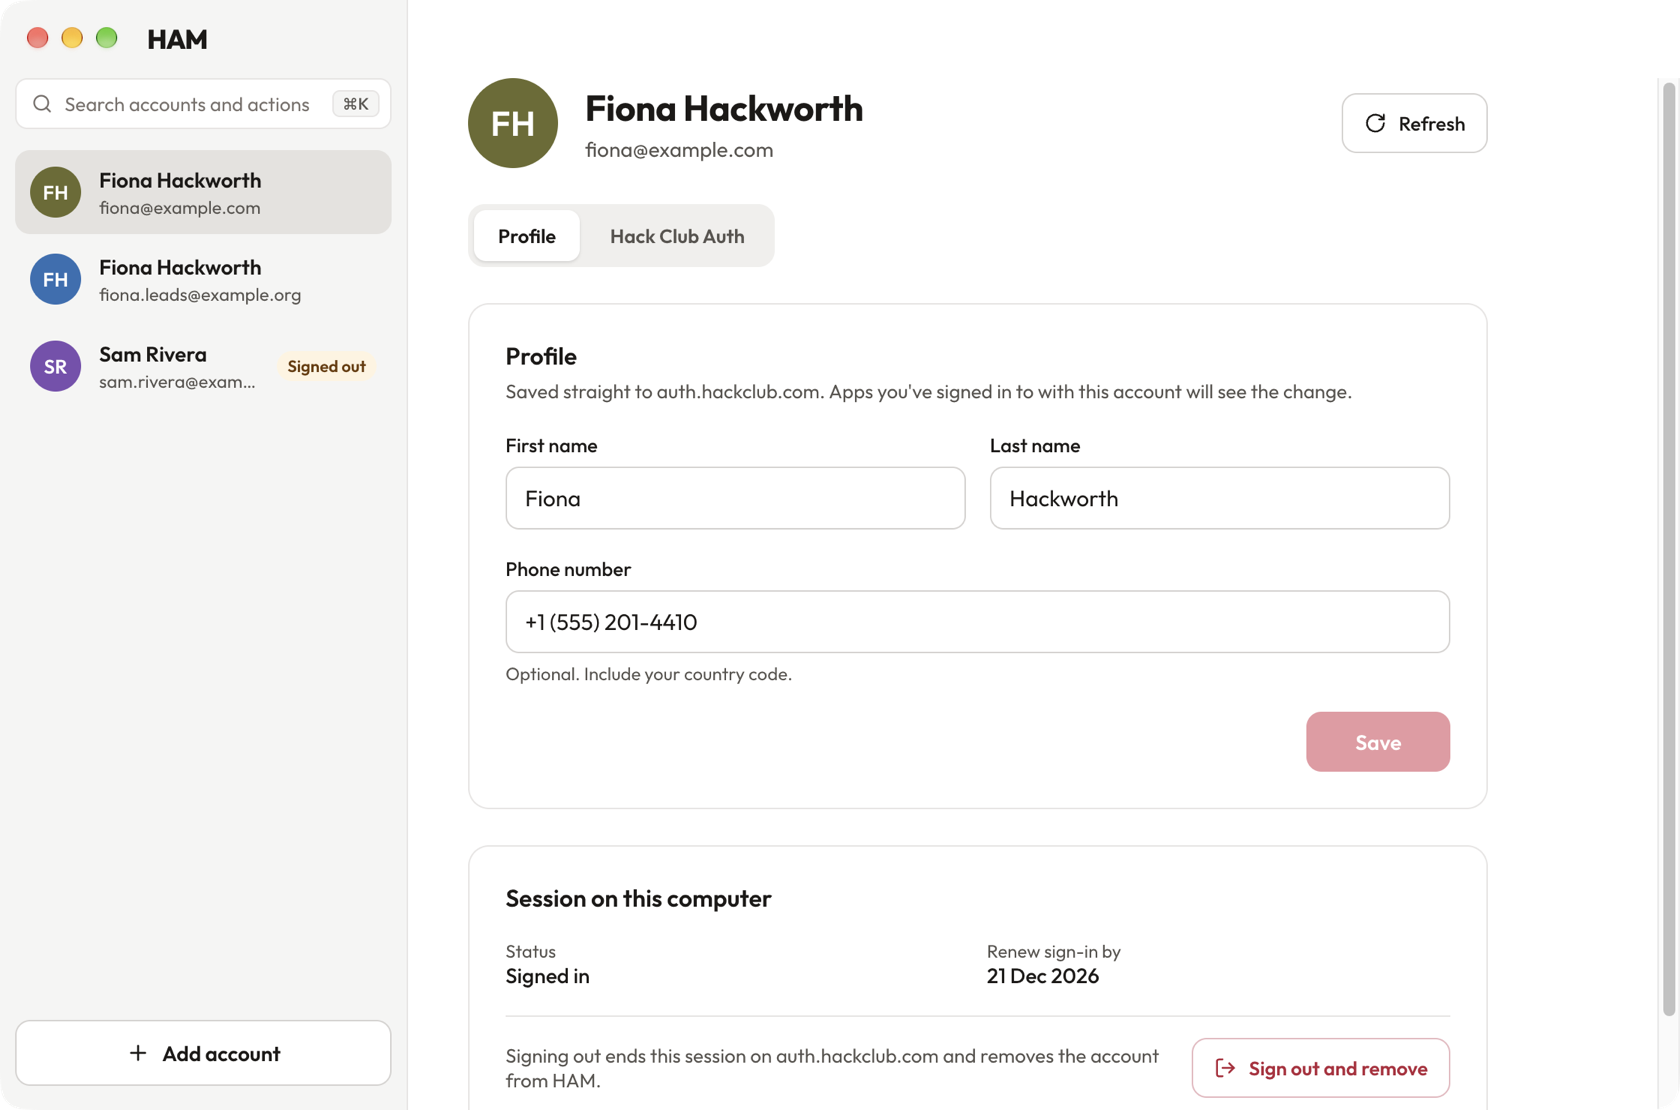
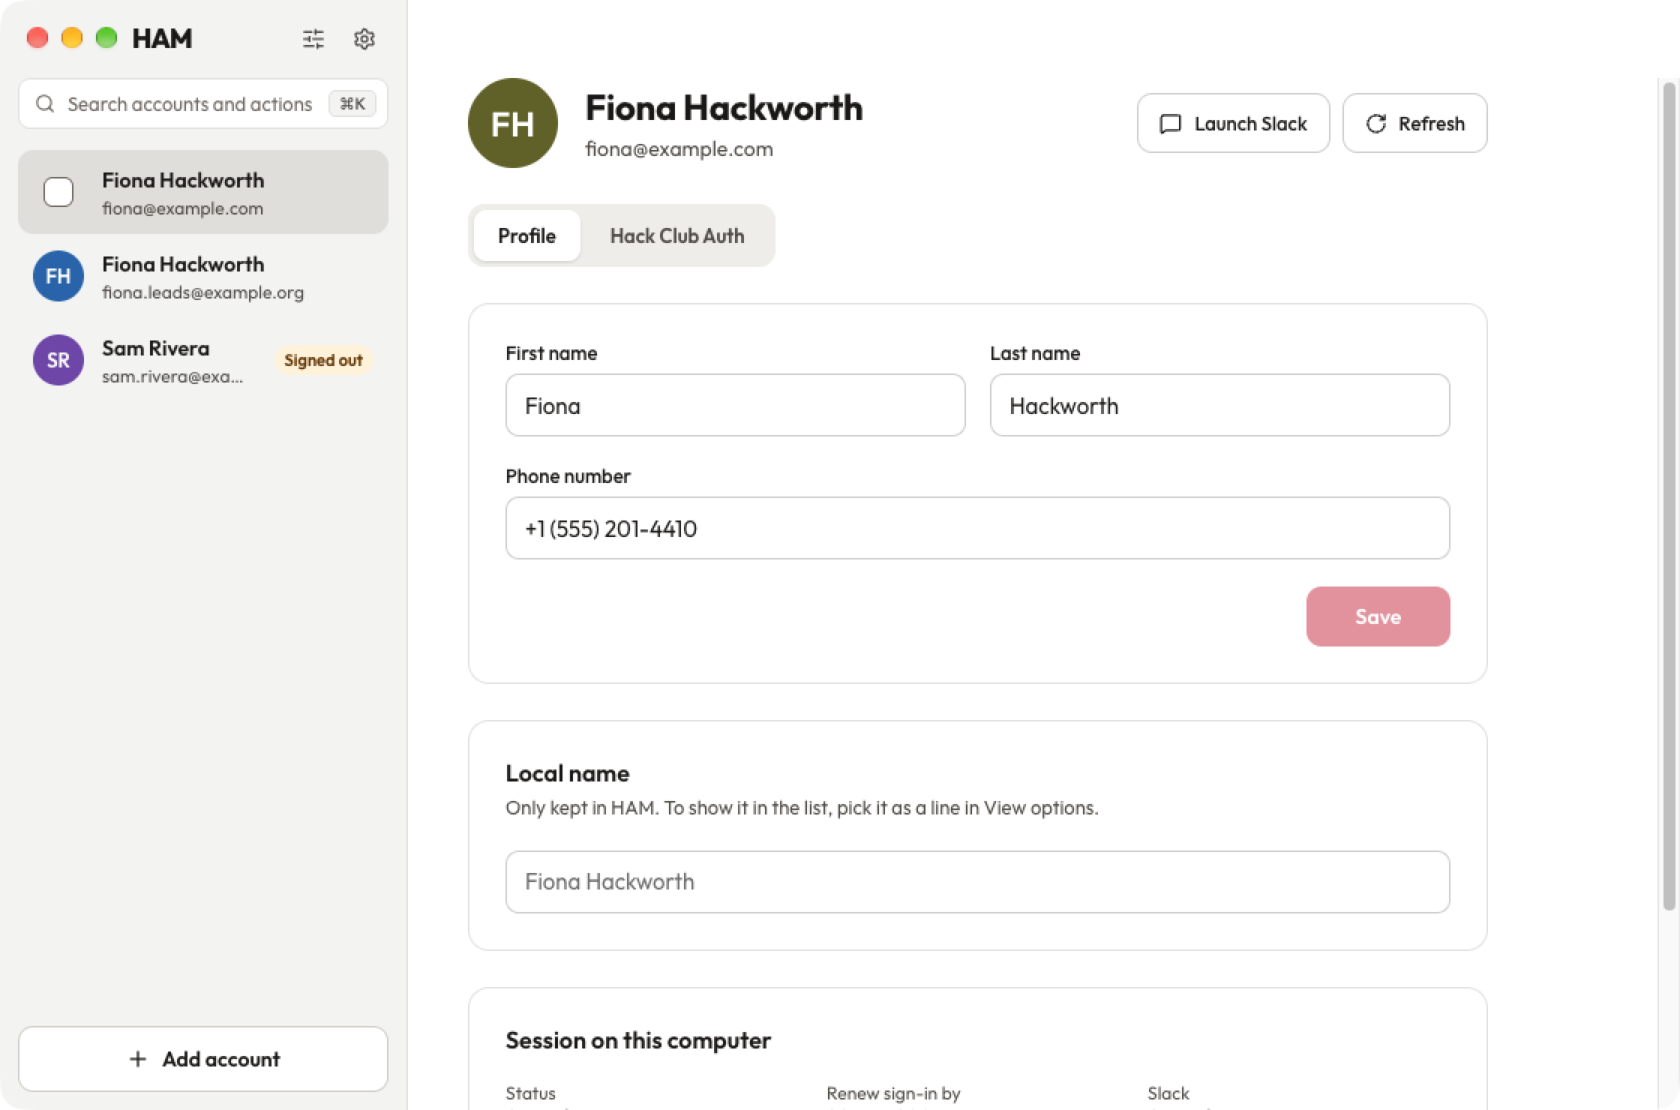
Retake screenshots, add local name shots to the README
The screenshot script still used the old add-account dialog; it now
follows the inline sign-in flow.

diff --git a/README.md b/README.md
@@ -18,6 +18,7 @@ HAM signs in to [Hack Club Auth](https://auth.hackclub.com) with your email, kee
 - **Every account in one list**, with a "Signed out" badge when a session has ended.
 - **A command palette** (Cmd+K) to jump to any account or run an action.
 - **Edit name and phone number.** Changes save straight to auth.hackclub.com.
+- **Local names** that only HAM keeps ("Personal", "Club leads"), to tell look-alike accounts apart. Show them in the list from View options, search for them, set them in bulk, or use `{{ account.local }}` in templates.
 - **Select and bulk edit** with Jinja templates (`{{ account.first | lower }}-alt{{ index }}`): preview every change, apply in the background, undo.
 - **View options:** sort, group and choose what each row shows, including templates.
 - **Launch Slack** for any account in its own window, signed in through Hack Club.
@@ -28,6 +29,7 @@ HAM signs in to [Hack Club Auth](https://auth.hackclub.com) with your email, kee
 | --- | --- |
 | ![Adding an account](docs/screenshots/sign-in-code.png) | ![The embedded dashboard](docs/screenshots/dashboard.png) |
 | ![Dark mode](docs/screenshots/profile-dark.png) | ![A signed-out account](docs/screenshots/signed-out.png) |
+| ![Setting a local name](docs/screenshots/local-name.png) | ![Local names as the list's first line](docs/screenshots/local-name-list.png) |
 
 ## Install
 
